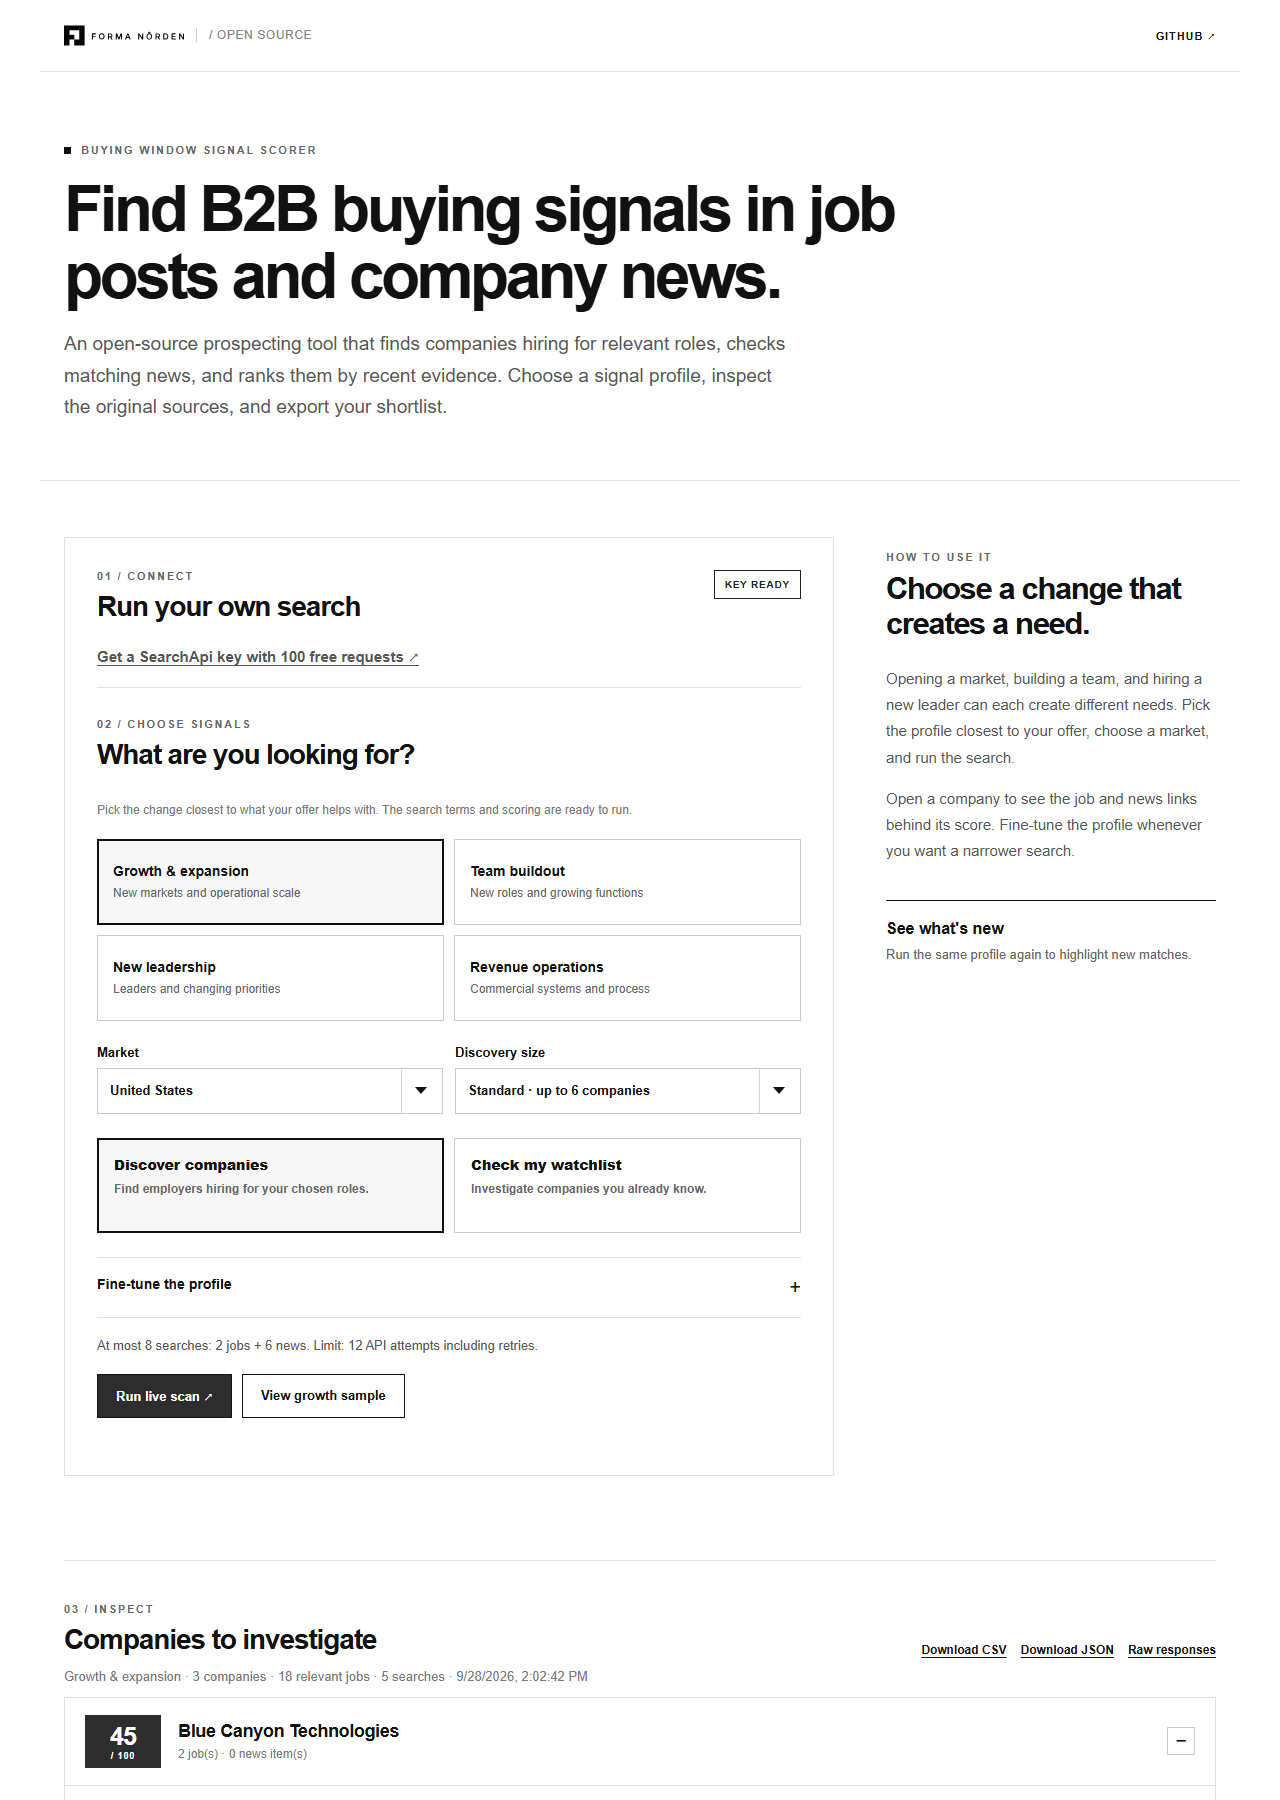
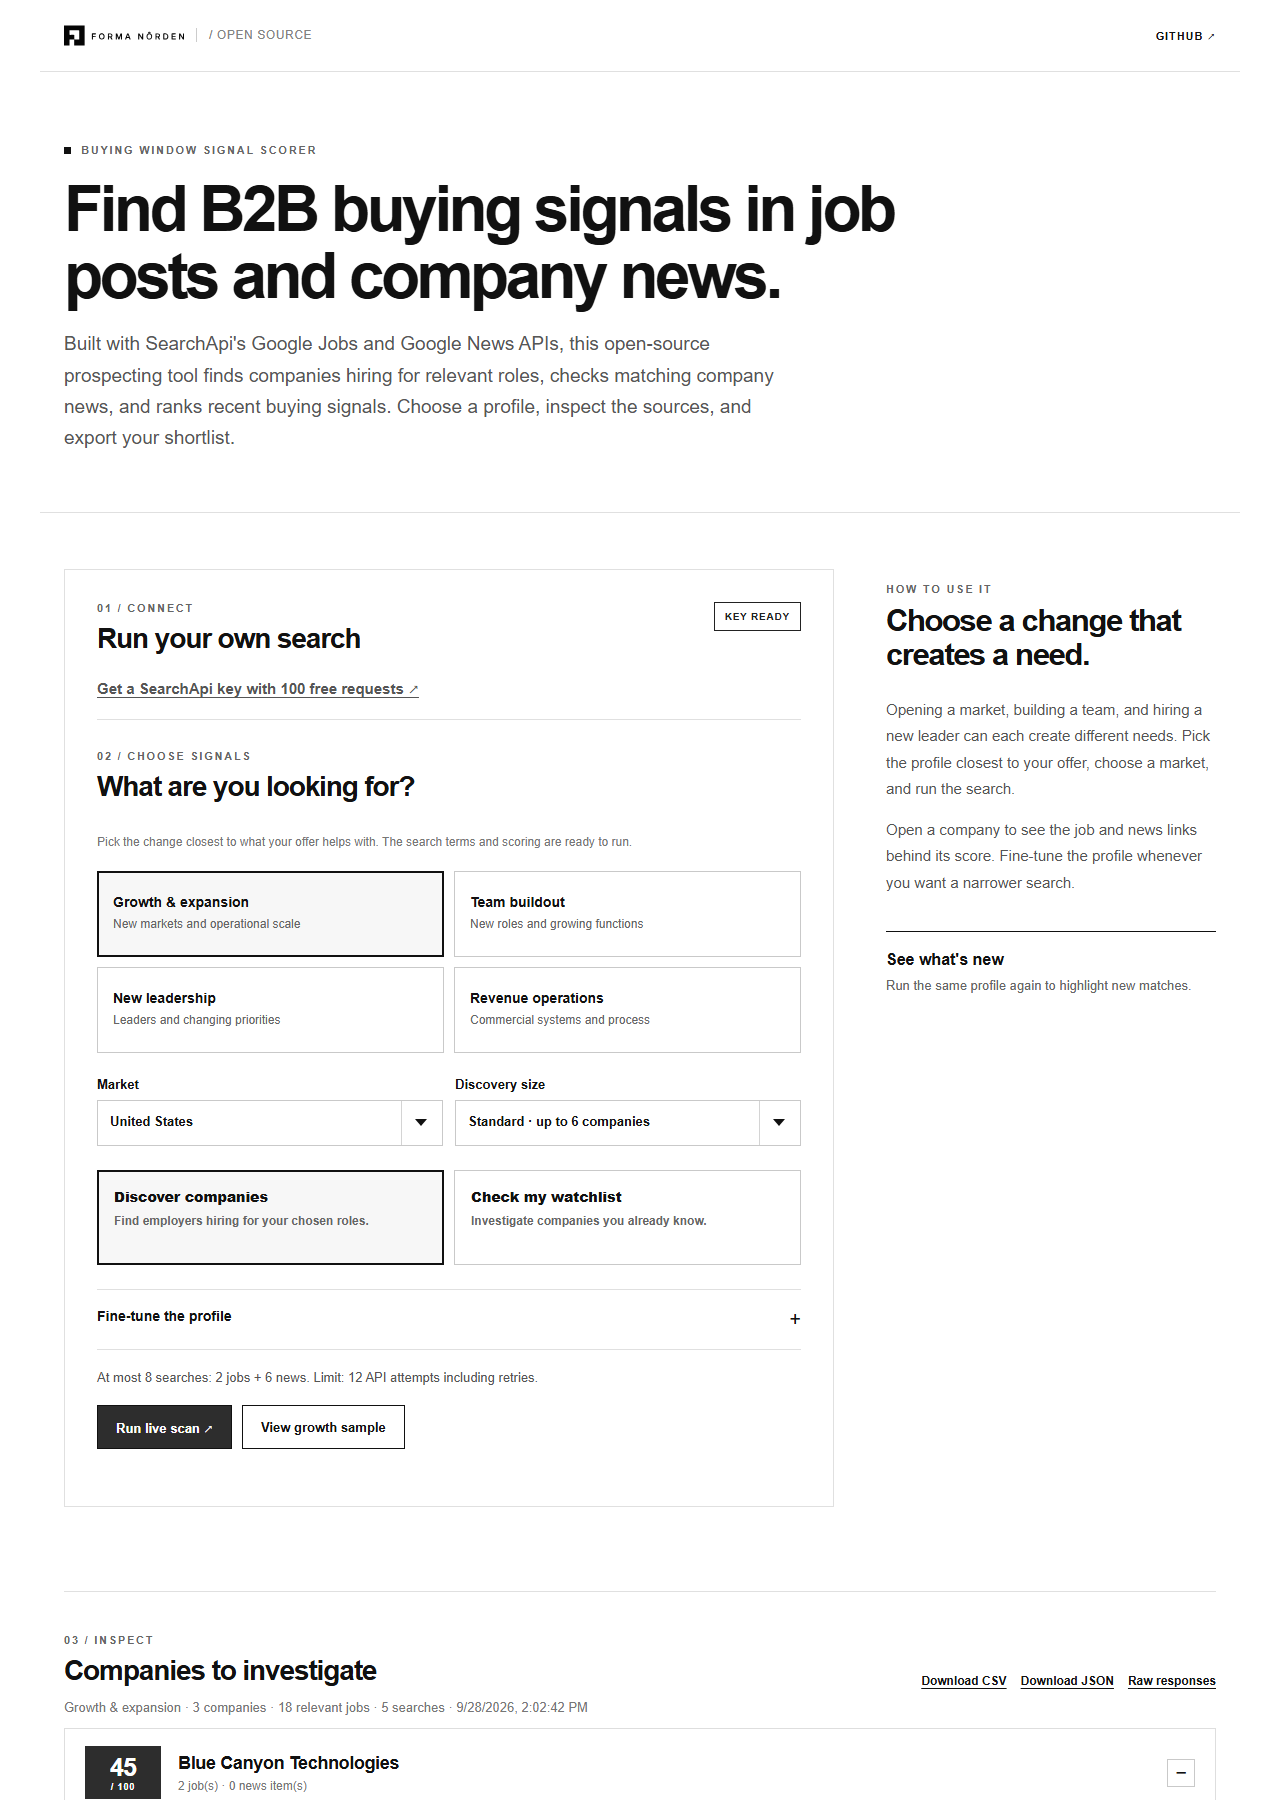
Name SearchApi in app copy and track all reader links

diff --git a/web/index.html b/web/index.html
@@ -2,7 +2,7 @@
 <html lang="en">
 <head>
   <meta charset="utf-8"><meta name="viewport" content="width=device-width, initial-scale=1">
-  <meta name="description" content="Open-source B2B prospecting tool that finds buying-window signals in Google Jobs and company news, ranks relevant companies, and links every score to its sources.">
+  <meta name="description" content="Open-source B2B prospecting tool built with SearchApi's Google Jobs and Google News APIs. Find companies showing recent hiring and news signals.">
   <title>Buying Window Signal Scorer · Forma Nôrden</title>
   <link rel="icon" type="image/webp" href="/assets/favicon.webp">
   <link rel="stylesheet" href="/assets/style.css">
@@ -10,7 +10,7 @@
 <body><div class="shell">
   <header class="topbar"><a class="brand" href="https://formanorden.com/open-source/" target="_blank" rel="noopener"><img src="/assets/forma-norden-logo.svg" alt="Forma Nôrden" width="120" height="34"><span>/ OPEN SOURCE</span></a><a class="header-repo" href="https://github.com/forma-norden/buying-window-signal-scorer" target="_blank" rel="noopener">GITHUB ↗</a></header>
   <main>
-    <section class="hero"><div class="eyebrow"><span class="dot"></span> BUYING WINDOW SIGNAL SCORER</div><h1>Find B2B buying signals in job posts and company news.</h1><p>An open-source prospecting tool that finds companies hiring for relevant roles, checks matching news, and ranks them by recent evidence. Choose a signal profile, inspect the original sources, and export your shortlist.</p></section>
+    <section class="hero"><div class="eyebrow"><span class="dot"></span> BUYING WINDOW SIGNAL SCORER</div><h1>Find B2B buying signals in job posts and company news.</h1><p>Built with SearchApi's Google Jobs and Google News APIs, this open-source prospecting tool finds companies hiring for relevant roles, checks matching company news, and ranks recent buying signals. Choose a profile, inspect the sources, and export your shortlist.</p></section>
     <section class="workspace">
       <div class="panel input-panel">
         <div class="section-heading"><div><p class="overline">01 / CONNECT</p><h2>Run your own search</h2></div><span id="key-status" class="status">Checking key…</span></div>
@@ -43,5 +43,5 @@
       <aside class="panel guide-panel"><p class="overline">HOW TO USE IT</p><h2>Choose a change that creates a need.</h2><p>Opening a market, building a team, and hiring a new leader can each create different needs. Pick the profile closest to your offer, choose a market, and run the search.</p><p>Open a company to see the job and news links behind its score. Fine-tune the profile whenever you want a narrower search.</p><div class="guide-note"><strong>See what's new</strong><p>Run the same profile again to highlight new matches.</p></div></aside>
     </section>
     <section class="results-section" id="results-section" hidden><div class="results-head"><div><p class="overline">03 / INSPECT</p><h2>Companies to investigate</h2><p id="run-summary" class="muted"></p></div><div class="export"><a href="/api/export.csv">Download CSV</a><a href="/api/export.json">Download JSON</a><a href="/api/raw-latest">Raw responses</a></div></div><div id="caveat" class="caveat"></div><div id="accounts" class="accounts"></div></section>
-  </main><footer>Built by Forma Nôrden. <a href="https://github.com/forma-norden/buying-window-signal-scorer" target="_blank" rel="noopener">Explore the code ↗</a></footer>
+  </main><footer>Built by Forma Nôrden. Search powered by <a href="https://www.searchapi.io/?utm_source=dev&amp;utm_medium=ambassador&amp;utm_campaign=formanorden.com" target="_blank" rel="noopener">SearchApi ↗</a>. <a href="https://github.com/forma-norden/buying-window-signal-scorer" target="_blank" rel="noopener">Explore the code ↗</a></footer>
 </div><script src="/assets/app.js" defer></script></body></html>

diff --git a/publication/forma-norden-blog.md b/publication/forma-norden-blog.md
@@ -15,7 +15,7 @@ An account can fit your target market for years without having a reason to chang
 
 Public job descriptions are one place to find that change. A company hiring an operations manager may be opening a region, bringing an outsourced process in-house, or replacing a patchwork of systems. The title gets you to the posting; the mandate in the description tells you what to investigate. Company news can supply another part of the story if it clearly refers to the same employer.
 
-We built an [open-source Buying Window Signal Scorer](https://github.com/forma-norden/buying-window-signal-scorer) to turn that method into a repeatable search. It combines [SearchApi Google Jobs](https://www.searchapi.io/docs/google-jobs) and [Google News](https://www.searchapi.io/docs/google-news), ranks companies against an editable profile, and keeps the underlying links beside the score. You can run it locally with your own SearchApi key.
+We built an [open-source Buying Window Signal Scorer](https://github.com/forma-norden/buying-window-signal-scorer) to turn that method into a repeatable search. It combines [SearchApi Google Jobs](https://www.searchapi.io/docs/google-jobs?utm_source=dev&utm_medium=ambassador&utm_campaign=formanorden.com) and [Google News](https://www.searchapi.io/docs/google-news?utm_source=dev&utm_medium=ambassador&utm_campaign=formanorden.com), ranks companies against an editable profile, and keeps the underlying links beside the score. You can run it locally with your own SearchApi key.
 
 **TL;DR:** Define the business change your offer can help with. Search for roles and description phrases that reveal it, then check relevant company events. Score recent, attributable evidence, open the original sources, and qualify the account against your actual market. The [tool and setup guide](https://github.com/forma-norden/buying-window-signal-scorer) make the search repeatable; the score is a research order, not a purchase forecast.
 
@@ -72,7 +72,7 @@ These counts describe the responses to a few queries at a point in time. They do
 
 ## Request budget and repeat scans
 
-SearchApi's [pricing page](https://www.searchapi.io/pricing) currently lists **100 free requests** on signup. The app shows its planned upper bound before making a live call. Under the shipped growth profile, a discovery run has at most two Jobs requests and six News requests: **eight initial searches**. A smaller three-company run plans five. Retries count against the hard attempt cap, so the final count can differ from the initial plan.
+SearchApi's [pricing page](https://www.searchapi.io/pricing?utm_source=dev&utm_medium=ambassador&utm_campaign=formanorden.com) currently lists **100 free requests** on signup. The app shows its planned upper bound before making a live call. Under the shipped growth profile, a discovery run has at most two Jobs requests and six News requests: **eight initial searches**. A smaller three-company run plans five. Retries count against the hard attempt cap, so the final count can differ from the initial plan.
 
 At eight requests per full default run, 100 requests would cover at most twelve such runs with four requests left **if there were no retries or other usage**. That is arithmetic for planning a trial, not a quoted price or a promise about an account's remaining balance. Set the company and attempt limits to match the decision you need to make. For an initial test, a small scan in one market is usually enough to see whether your role and phrase choices produce useful evidence.
 

diff --git a/README.md b/README.md
@@ -1,6 +1,6 @@
 # Buying Window Signal Scorer
 
-**Find companies showing the changes your offer can help with.** This small, open-source app turns [Google Jobs](https://www.searchapi.io/docs/google-jobs) and [Google News](https://www.searchapi.io/docs/google-news) results into a source-linked research queue. You choose the hiring and company events. The scorer shows why each company appeared and how it earned its score.
+**Find companies showing the changes your offer can help with.** Built with SearchApi's [Google Jobs](https://www.searchapi.io/docs/google-jobs?utm_source=dev&utm_medium=ambassador&utm_campaign=formanorden.com) and [Google News](https://www.searchapi.io/docs/google-news?utm_source=dev&utm_medium=ambassador&utm_campaign=formanorden.com) APIs, this small, open-source app turns hiring and company news into a source-linked research queue. You choose the signals; the scorer shows why each company appeared and how it earned its score.
 
 It is useful for consultants, agencies, software teams, recruiters, and founders researching B2B prospects. The default looks for growth and expansion; you can switch to team buildout, new leadership, revenue operations, or your own profile.
 
@@ -8,7 +8,7 @@ It is useful for consultants, agencies, software teams, recruiters, and founders
 
 ## Get started
 
-**Prerequisites:** Python 3.11+ and a [SearchApi account](https://www.searchapi.io/?utm_source=dev&utm_medium=ambassador&utm_campaign=formanorden.com). SearchApi currently offers **100 free requests** when you sign up; [check its pricing page](https://www.searchapi.io/pricing) for the current allowance.
+**Prerequisites:** Python 3.11+ and a [SearchApi account](https://www.searchapi.io/?utm_source=dev&utm_medium=ambassador&utm_campaign=formanorden.com). SearchApi currently offers **100 free requests** when you sign up; [check its pricing page](https://www.searchapi.io/pricing?utm_source=dev&utm_medium=ambassador&utm_campaign=formanorden.com) for the current allowance.
 
 ```bash
 git clone https://github.com/forma-norden/buying-window-signal-scorer.git

diff --git a/publication/dev-article.md b/publication/dev-article.md
@@ -14,7 +14,7 @@ I built [Buying Window Signal Scorer](https://github.com/forma-norden/buying-win
 
 ## Run it with your own search
 
-Get a [SearchApi key](https://www.searchapi.io/?utm_source=dev&utm_medium=ambassador&utm_campaign=formanorden.com) first. Its [pricing page](https://www.searchapi.io/pricing) currently offers 100 free requests on signup. Then:
+Get a [SearchApi key](https://www.searchapi.io/?utm_source=dev&utm_medium=ambassador&utm_campaign=formanorden.com) first. Its [pricing page](https://www.searchapi.io/pricing?utm_source=dev&utm_medium=ambassador&utm_campaign=formanorden.com) currently offers 100 free requests on signup. Then:
 
 ```bash
 git clone https://github.com/forma-norden/buying-window-signal-scorer.git
@@ -46,7 +46,7 @@ Under the hood, the two paths start differently:
 {"engine": "google_jobs", "q": "Harbor Foods operations manager OR business development manager", "location": "United States", "gl": "us"}
 ```
 
-In both paths, the scorer checks the returned employer field before assigning a job to a company. An article about a company is checked against the company name and the selected event terms. [SearchApi's Jobs](https://www.searchapi.io/docs/google-jobs) and [News](https://www.searchapi.io/docs/google-news) endpoints provide the source results; the matching and scoring rules are local and readable in the repository.
+In both paths, the scorer checks the returned employer field before assigning a job to a company. An article about a company is checked against the company name and the selected event terms. [SearchApi's Jobs](https://www.searchapi.io/docs/google-jobs?utm_source=dev&utm_medium=ambassador&utm_campaign=formanorden.com) and [News](https://www.searchapi.io/docs/google-news?utm_source=dev&utm_medium=ambassador&utm_campaign=formanorden.com) endpoints provide the source results; the matching and scoring rules are local and readable in the repository.
 
 ## What earns 100 points?
 

diff --git a/publication/linkedin-pulse-article.md b/publication/linkedin-pulse-article.md
@@ -36,7 +36,7 @@ If the description says the new hire will open a territory or implement a system
 4. Record the useful companies in your existing account workflow. Keep the job or article link, the date, and the actual mandate.
 5. Re-run the same profile later. The tool marks evidence first seen in *your scan results*, so you can review the changes without mistaking that label for a publication date.
 
-The app displays an API request estimate before each run and enforces an attempt cap. It also exports CSV and JSON for teams that want to bring the evidence into their own process. SearchApi currently offers [100 free requests at signup](https://www.searchapi.io/pricing); [get a key here](https://www.searchapi.io/?utm_source=dev&utm_medium=ambassador&utm_campaign=formanorden.com) and the [repository has the setup steps](https://github.com/forma-norden/buying-window-signal-scorer). The app runs locally, so you can try one profile and inspect the sources yourself.
+The app displays an API request estimate before each run and enforces an attempt cap. It also exports CSV and JSON for teams that want to bring the evidence into their own process. SearchApi currently offers [100 free requests at signup](https://www.searchapi.io/pricing?utm_source=dev&utm_medium=ambassador&utm_campaign=formanorden.com); [get a key here](https://www.searchapi.io/?utm_source=dev&utm_medium=ambassador&utm_campaign=formanorden.com) and the [repository has the setup steps](https://github.com/forma-norden/buying-window-signal-scorer). The app runs locally, so you can try one profile and inspect the sources yourself.
 
 The test for a buying window is not whether a dashboard gives a company a high score. It is whether you can explain the change in one accurate sentence, point to the source, and connect it to something you can genuinely help with.
 

diff --git a/docs/live-run-2026-09-28.md b/docs/live-run-2026-09-28.md
@@ -18,4 +18,4 @@ To run a comparable growth search, start with the default profile and use:
 python -m buying_window.cli scan --mode discovery --max-accounts 3
 ```
 
-To try hiring, choose **Hiring & team buildout** in the dashboard and set the discovery-account limit to three. The scan estimate will show the planned requests before you run it. [SearchApi Jobs documentation](https://www.searchapi.io/docs/google-jobs) and [News documentation](https://www.searchapi.io/docs/google-news) describe the two data sources.
+To try hiring, choose **Hiring & team buildout** in the dashboard and set the discovery-account limit to three. The scan estimate will show the planned requests before you run it. [SearchApi Jobs documentation](https://www.searchapi.io/docs/google-jobs?utm_source=dev&utm_medium=ambassador&utm_campaign=formanorden.com) and [News documentation](https://www.searchapi.io/docs/google-news?utm_source=dev&utm_medium=ambassador&utm_campaign=formanorden.com) describe the two data sources.
